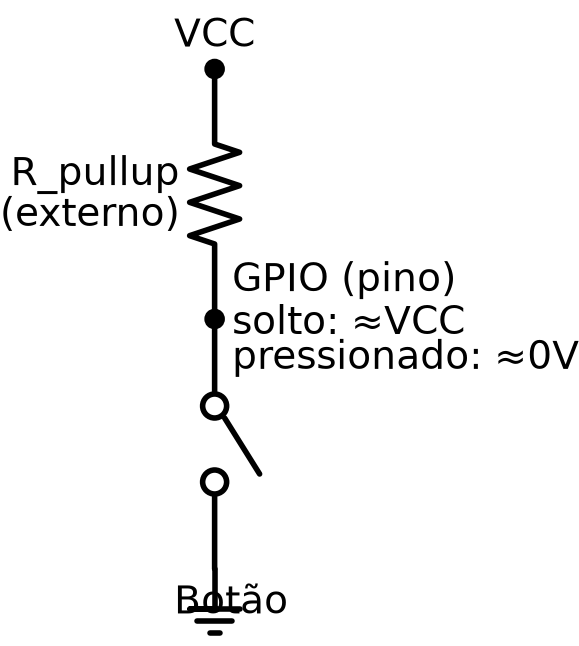
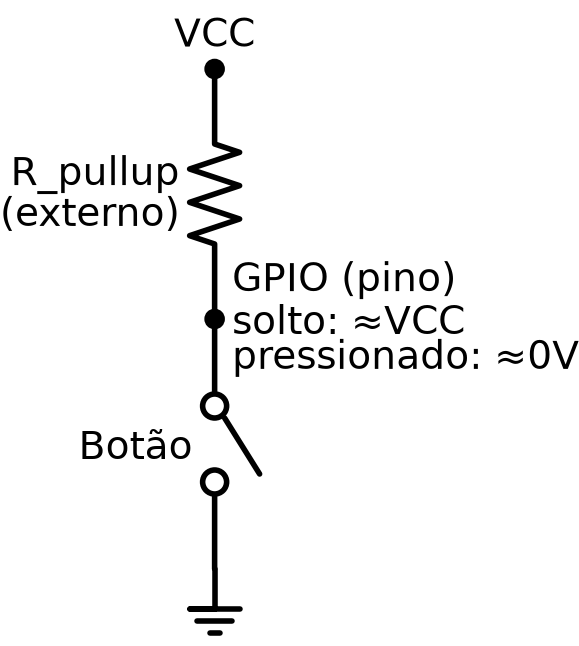
fix(diagramas): remover loc explicito que colidia rotulo Botao com GND (gpio_pullup) Co-Authored-By: Claude Haiku 4.5 <noreply@anthropic.com> Claude-Session: https://claude.ai/code/session_01RkkRkeJJLgrRawW8cqUqk3

Changed region(s): [[0.3109, 0.8978, 0.4974, 0.9598], [0.1244, 0.6502, 0.342, 0.7121]]

diff --git a/scripts/diagramas/gpio_pullup.py b/scripts/diagramas/gpio_pullup.py
@@ -24,7 +24,7 @@ with schemdraw.Drawing(show=False) as d:
     vcc_dot = d.add(elm.Dot().label("VCC", loc="top"))
     d.add(elm.Resistor().at(vcc_dot.center).down().label("R_pullup\n(externo)"))
     pin = d.add(elm.Dot().label("GPIO (pino)\nsolto: ≈VCC\npressionado: ≈0V", loc="right"))
-    d.add(elm.Switch().at(pin.center).down().label("Botão", loc="left"))
+    d.add(elm.Switch().at(pin.center).down().label("Botão"))
     d.add(elm.Ground())
 
     d.save(str(OUT_DIR / f"{NAME}.svg"))
